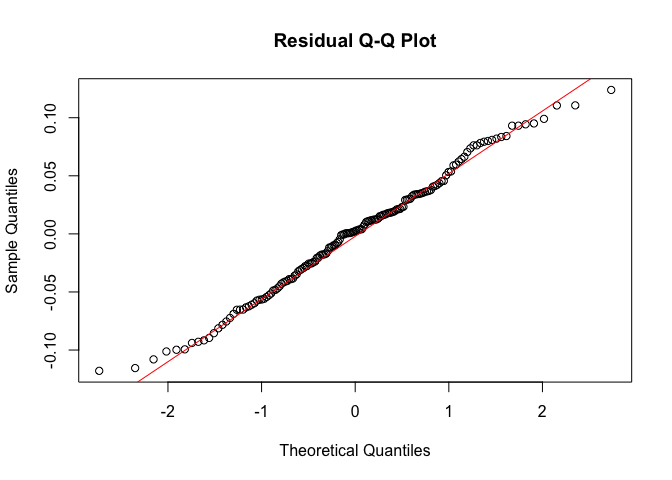
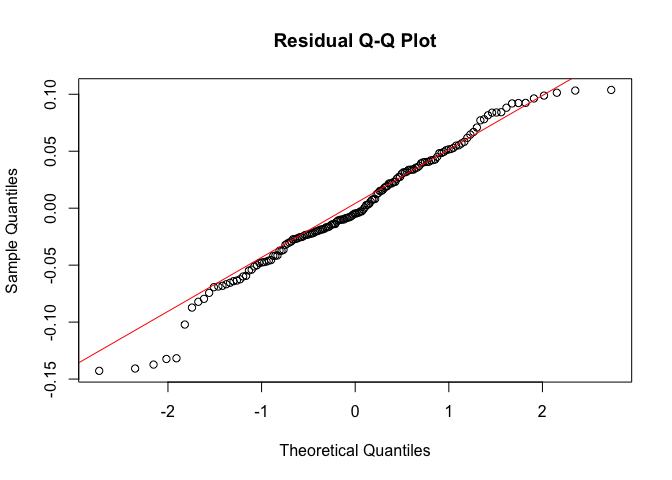
try to display equations properly in markdown

diff --git a/01-plan/01-pre-registration/03-analysis-plan.md b/01-plan/01-pre-registration/03-analysis-plan.md
@@ -41,21 +41,15 @@ stronger negative effect on plant biomass) with increasing nitrogen.
 Based on this experimental design, we will use the following linear
 model to analyse this experiment:
 
-![log(L\_{i}) = \alpha + \beta_1\text{N}\_{i} + \beta_2\text{M}\_{i} + \beta_3\text{N}\_{i}\text{M}\_{i} + \epsilon\_{i}](log%28L_%7Bi%7D%29%20%3D%20%5Calpha%20%2B%20%5Cbeta_1%5Ctext%7BN%7D_%7Bi%7D%20%2B%20%5Cbeta_2%5Ctext%7BM%7D_%7Bi%7D%20%2B%20%5Cbeta_3%5Ctext%7BN%7D_%7Bi%7D%5Ctext%7BM%7D_%7Bi%7D%20%2B%20%5Cepsilon_%7Bi%7D "log(L_{i}) = \alpha + \beta_1\text{N}_{i} + \beta_2\text{M}_{i} + \beta_3\text{N}_{i}\text{M}_{i} + \epsilon_{i}")
+$$log(L_{i}) = \alpha + \beta_1\text{N}_{i} + \beta_2\text{M}_{i} + \beta_3\text{N}_{i}\text{M}_{i} + \epsilon_{i}$$
+$$\epsilon_{i} \sim Normal(0, \sigma_{residual})$$ Based on this model,
+we can set-up the statistical hypotheses as follows:
 
-![\epsilon\_{i} \sim Normal(0, \sigma\_{residual})](%5Cepsilon_%7Bi%7D%20%5Csim%20Normal%280%2C%20%5Csigma_%7Bresidual%7D%29 "\epsilon_{i} \sim Normal(0, \sigma_{residual})")
+$$H_0: \beta_3 \ge 0$$ $$H_A: \beta_3 \lt 0$$
 
-Based on this model, we can set-up the statistical hypotheses as
-follows:
-
-![H_0: \beta_3 \ge 0](H_0%3A%20%5Cbeta_3%20%5Cge%200 "H_0: \beta_3 \ge 0")
-
-![H_A: \beta_3 \lt 0](H_A%3A%20%5Cbeta_3%20%5Clt%200 "H_A: \beta_3 \lt 0")
-
-Therefore, if ![\beta_3](%5Cbeta_3 "\beta_3") is significantly less than
-zero (i.e. ![P \< 0.025](P%20%3C%200.025 "P < 0.025")), we would
-interpret this as evidence that plant-soil feedback does become stronger
-with increasing N.
+Therefore, if $\beta_3$ is significantly less than zero
+(i.e. $P<0.025$), we would interpret this as evidence that plant-soil
+feedback does become stronger with increasing N.
 
 ### Simulated data
 
@@ -117,12 +111,12 @@ head(dat_e1)
     # A tibble: 6 × 5
           N     M     L N_trans L_log
       <dbl> <dbl> <dbl>   <dbl> <dbl>
-    1  1.39     0  4.02       0  1.39
-    2  1.39     0  4.81       0  1.57
-    3  1.39     0  5.21       0  1.65
-    4  1.39     0  4.24       0  1.45
-    5  1.39     0  4.16       0  1.43
-    6  1.39     0  5.02       0  1.61
+    1  1.39     0  4.15       0  1.42
+    2  1.39     0  4.08       0  1.41
+    3  1.39     0  4.01       0  1.39
+    4  1.39     0  5.34       0  1.67
+    5  1.39     0  4.46       0  1.49
+    6  1.39     0  3.82       0  1.34
 
 Now we are ready to fit the model:
 
@@ -180,29 +174,26 @@ summary(lm_e1)
 
     Residuals:
           Min        1Q    Median        3Q       Max 
-    -0.305161 -0.063319  0.000386  0.070744  0.237251 
+    -0.211249 -0.059002  0.001865  0.052514  0.216039 
 
     Coefficients:
                 Estimate Std. Error t value Pr(>|t|)    
-    (Intercept)  1.52973    0.02958  51.709  < 2e-16 ***
-    M           -0.16738    0.04184  -4.001 0.000145 ***
-    N_trans      0.19906    0.01742  11.424  < 2e-16 ***
-    M:N_trans   -0.09175    0.02464  -3.723 0.000375 ***
+    (Intercept)  1.50551    0.02688  56.006  < 2e-16 ***
+    M           -0.11260    0.03802  -2.962  0.00408 ** 
+    N_trans      0.19380    0.01583  12.241  < 2e-16 ***
+    M:N_trans   -0.09571    0.02239  -4.275 5.49e-05 ***
     ---
     Signif. codes:  0 '***' 0.001 '**' 0.01 '*' 0.05 '.' 0.1 ' ' 1
 
-    Residual standard error: 0.108 on 76 degrees of freedom
-    Multiple R-squared:  0.8067,    Adjusted R-squared:  0.7991 
-    F-statistic: 105.7 on 3 and 76 DF,  p-value: < 2.2e-16
+    Residual standard error: 0.09816 on 76 degrees of freedom
+    Multiple R-squared:  0.8047,    Adjusted R-squared:  0.797 
+    F-statistic: 104.4 on 3 and 76 DF,  p-value: < 2.2e-16
 
-In this output, the ![\beta_3](%5Cbeta_3 "\beta_3") parameter is the
-“M:N_trans” parameter. This output indicates that
-![\beta_3](%5Cbeta_3 "\beta_3") is significantly less than zero
-(![t_1 = -4.03; P = 0.00013](t_1%20%3D%20-4.03%3B%20P%20%3D%200.00013 "t_1 = -4.03; P = 0.00013")).
-Therefore, we would reject our null hypothesis
-(![H_0: \beta_3 \ge 0](H_0%3A%20%5Cbeta_3%20%5Cge%200 "H_0: \beta_3 \ge 0"))
-and infer support for our alternative hypothesis
-(![H_0: \beta_3 \< 0](H_0%3A%20%5Cbeta_3%20%3C%200 "H_0: \beta_3 < 0")).
+In this output, the $\beta_3$ parameter is the “M:N_trans” parameter.
+This output indicates that $\beta_3$ is significantly less than zero
+($t_1 = -4.03; P = 0.00013$). Therefore, we would reject our null
+hypothesis ($H_0: \beta_3 \ge 0$) and infer support for our alternative
+hypothesis ($H_0: \beta_3 < 0$).
 
 ### Visualise the results
 
@@ -210,12 +201,14 @@ To visualise the results, we will plot the model against the raw data.
 In addition, we will calculate plant-soil feedback using the metric used
 by Goossens et al. (2023, npj):
 
-![PSF_j = \frac{\overline{L}\_{microbes} - \overline{L}\_{no \\microbes}}{\overline{L}\_{no \\microbes}}](PSF_j%20%3D%20%5Cfrac%7B%5Coverline%7BL%7D_%7Bmicrobes%7D%20-%20%5Coverline%7BL%7D_%7Bno%20%5C%20microbes%7D%7D%7B%5Coverline%7BL%7D_%7Bno%20%5C%20microbes%7D%7D "PSF_j = \frac{\overline{L}_{microbes} - \overline{L}_{no \ microbes}}{\overline{L}_{no \ microbes}}")
+$$
+PSF_j = \frac{\overline{L}_{microbes} - \overline{L}_{no \ microbes}}{\overline{L}_{no \ microbes}}
+$$
 
-In this equation, the ![\overline{L}](%5Coverline%7BL%7D "\overline{L}")
-is the average across replicates of plant biomass for a given nitrogen
-level. Therefore, to obtain a measurement of the error around this
-estimate for each level of nitrogen, we used bootstrapping.
+In this equation, the $\overline{L}$ is the average across replicates of
+plant biomass for a given nitrogen level. Therefore, to obtain a
+measurement of the error around this estimate for each level of
+nitrogen, we used bootstrapping.
 
 ``` r
 # function for bootstrapping the sample and estimating psf
@@ -333,26 +326,28 @@ increasing nitrogen for invasive species. Based on this experimental
 design, we will use the following linear model to analyse this
 experiment:
 
-![log(I\_{i}) = \alpha + \beta_1\text{N}\_{i} + \beta_2\text{M}\_{i} + \beta_3\text{N}\_{i}\text{M}\_{i} + \epsilon\_{i}](log%28I_%7Bi%7D%29%20%3D%20%5Calpha%20%2B%20%5Cbeta_1%5Ctext%7BN%7D_%7Bi%7D%20%2B%20%5Cbeta_2%5Ctext%7BM%7D_%7Bi%7D%20%2B%20%5Cbeta_3%5Ctext%7BN%7D_%7Bi%7D%5Ctext%7BM%7D_%7Bi%7D%20%2B%20%5Cepsilon_%7Bi%7D "log(I_{i}) = \alpha + \beta_1\text{N}_{i} + \beta_2\text{M}_{i} + \beta_3\text{N}_{i}\text{M}_{i} + \epsilon_{i}")
-
-![\epsilon\_{i} \sim Normal(0, \sigma\_{residual})](%5Cepsilon_%7Bi%7D%20%5Csim%20Normal%280%2C%20%5Csigma_%7Bresidual%7D%29 "\epsilon_{i} \sim Normal(0, \sigma_{residual})")
-
-Based on this model, we can set-up the statistical hypotheses as
+$$
+log(I_{i}) = \alpha + \beta_1\text{N}_{i} + \beta_2\text{M}_{i} + \beta_3\text{N}_{i}\text{M}_{i} + \epsilon_{i}
+$$ $$
+\epsilon_{i} \sim Normal(0, \sigma_{residual})
+$$ Based on this model, we can set-up the statistical hypotheses as
 follows. The null hypothesis is that plant-soil feedback does not change
 or becomes weaker:
 
-![H_0: \beta_3 \ge 0](H_0%3A%20%5Cbeta_3%20%5Cge%200 "H_0: \beta_3 \ge 0")
+$$
+H_0: \beta_3 \ge 0
+$$
 
 The alternative hypothesis is that plant-soil feedback becomes stronger.
 
-![H_A: \beta_3 \lt 0](H_A%3A%20%5Cbeta_3%20%5Clt%200 "H_A: \beta_3 \lt 0")
+$$
+H_A: \beta_3 \lt 0
+$$
 
-Therefore, if ![\beta_3](%5Cbeta_3 "\beta_3") is significantly less than
-zero (i.e. ![P \< 0.025](P%20%3C%200.025 "P < 0.025")), we would
-interpret this as evidence that plant-soil feedback does become stronger
-with increasing N. However, if ![\beta_3](%5Cbeta_3 "\beta_3") is not
-significantly less than zero
-(i.e. ![P \ge 0.025](P%20%5Cge%200.025 "P \ge 0.025")), then we cannot
+Therefore, if $\beta_3$ is significantly less than zero
+(i.e. $P < 0.025$), we would interpret this as evidence that plant-soil
+feedback does become stronger with increasing N. However, if $\beta_3$
+is not significantly less than zero (i.e. $P \ge 0.025$), then we cannot
 reject the null hypothesis and we infer that nitrogen does not modify
 the strength of plant-soil feedback in invasive species.
 
@@ -412,12 +407,12 @@ head(dat_e2)
     # A tibble: 6 × 5
           N     M     I N_trans I_log
       <dbl> <dbl> <dbl>   <dbl> <dbl>
-    1  1.39     0  4.97       0  1.60
-    2  1.39     0  3.91       0  1.36
-    3  1.39     0  4.60       0  1.53
-    4  1.39     0  6.26       0  1.83
+    1  1.39     0  3.60       0  1.28
+    2  1.39     0  4.72       0  1.55
+    3  1.39     0  4.37       0  1.47
+    4  1.39     0  3.77       0  1.33
     5  1.39     0  4.39       0  1.48
-    6  1.39     0  4.26       0  1.45
+    6  1.39     0  3.66       0  1.30
 
 Next, we fit the model.
 
@@ -469,30 +464,27 @@ summary(lm_e2)
     lm(formula = I_log ~ M + N_trans + M:N_trans, data = dat_e2)
 
     Residuals:
-         Min       1Q   Median       3Q      Max 
-    -0.20024 -0.07048 -0.01057  0.06855  0.33308 
+          Min        1Q    Median        3Q       Max 
+    -0.202203 -0.065219 -0.005558  0.064437  0.256962 
 
     Coefficients:
                 Estimate Std. Error t value Pr(>|t|)    
-    (Intercept)  1.50048    0.02999  50.028   <2e-16 ***
-    M           -0.07619    0.04242  -1.796   0.0764 .  
-    N_trans      0.18799    0.01767  10.642   <2e-16 ***
-    M:N_trans   -0.01247    0.02498  -0.499   0.6192    
+    (Intercept)  1.46337    0.02680  54.609   <2e-16 ***
+    M           -0.03778    0.03790  -0.997   0.3219    
+    N_trans      0.21949    0.01578  13.907   <2e-16 ***
+    M:N_trans   -0.04677    0.02232  -2.095   0.0395 *  
     ---
     Signif. codes:  0 '***' 0.001 '**' 0.01 '*' 0.05 '.' 0.1 ' ' 1
 
-    Residual standard error: 0.1095 on 76 degrees of freedom
-    Multiple R-squared:  0.7488,    Adjusted R-squared:  0.7389 
-    F-statistic: 75.51 on 3 and 76 DF,  p-value: < 2.2e-16
+    Residual standard error: 0.09785 on 76 degrees of freedom
+    Multiple R-squared:  0.8152,    Adjusted R-squared:  0.8079 
+    F-statistic: 111.7 on 3 and 76 DF,  p-value: < 2.2e-16
 
-The ![\beta_3](%5Cbeta_3 "\beta_3") parameter is the “M:N_trans”
-parameter. This output indicates that ![\beta_3](%5Cbeta_3 "\beta_3") is
-not significantly less than zero
-(![t_1 = 1.1; P = 0.27](t_1%20%3D%201.1%3B%20P%20%3D%200.27 "t_1 = 1.1; P = 0.27")).
-Therefore, we cannot reject the null hypothesis
-(![H_0: \beta_3 \ge 0](H_0%3A%20%5Cbeta_3%20%5Cge%200 "H_0: \beta_3 \ge 0"))
-and, therefore, that plant-soil feedback does not become stronger with
-nitrogen for invasive species.
+The $\beta_3$ parameter is the “M:N_trans” parameter. This output
+indicates that $\beta_3$ is not significantly less than zero
+($t_1 = 1.1; P = 0.27$). Therefore, we cannot reject the null hypothesis
+($H_0: \beta_3 \ge 0$) and, therefore, that plant-soil feedback does not
+become stronger with nitrogen for invasive species.
 
 ### Visualise the results
 
@@ -572,15 +564,23 @@ plot(dag3)
 
 ![](03-analysis-plan_files/figure-commonmark/unnamed-chunk-19-1.png)
 
-![log(L\_{i}) = \alpha + \beta_1\text{N}\_{i} + \beta_2\text{M}\_{i} + \beta_3\text{I}\_{i} + \beta_4\text{N}\_{i}\text{M}\_{i} + \beta_5\text{I}\_{i}\text{M}\_{i} + \beta_6\text{I}\_{i}\text{N}\_{i} + \beta_7\text{N}\_{i}\text{M}\_{i}\text{I}\_{i} + \epsilon\_{i}](log%28L_%7Bi%7D%29%20%3D%20%5Calpha%20%2B%20%5Cbeta_1%5Ctext%7BN%7D_%7Bi%7D%20%2B%20%5Cbeta_2%5Ctext%7BM%7D_%7Bi%7D%20%2B%20%5Cbeta_3%5Ctext%7BI%7D_%7Bi%7D%20%2B%20%5Cbeta_4%5Ctext%7BN%7D_%7Bi%7D%5Ctext%7BM%7D_%7Bi%7D%20%2B%20%5Cbeta_5%5Ctext%7BI%7D_%7Bi%7D%5Ctext%7BM%7D_%7Bi%7D%20%2B%20%5Cbeta_6%5Ctext%7BI%7D_%7Bi%7D%5Ctext%7BN%7D_%7Bi%7D%20%2B%20%5Cbeta_7%5Ctext%7BN%7D_%7Bi%7D%5Ctext%7BM%7D_%7Bi%7D%5Ctext%7BI%7D_%7Bi%7D%20%2B%20%5Cepsilon_%7Bi%7D "log(L_{i}) = \alpha + \beta_1\text{N}_{i} + \beta_2\text{M}_{i} + \beta_3\text{I}_{i} + \beta_4\text{N}_{i}\text{M}_{i} + \beta_5\text{I}_{i}\text{M}_{i} + \beta_6\text{I}_{i}\text{N}_{i} + \beta_7\text{N}_{i}\text{M}_{i}\text{I}_{i} + \epsilon_{i}")
+$$
+log(L_{i}) = \alpha + \beta_1\text{N}_{i} + \beta_2\text{M}_{i} + \beta_3\text{I}_{i} + \beta_4\text{N}_{i}\text{M}_{i} + \beta_5\text{I}_{i}\text{M}_{i} + \beta_6\text{I}_{i}\text{N}_{i} + \beta_7\text{N}_{i}\text{M}_{i}\text{I}_{i} + \epsilon_{i}
+$$
 
-![\epsilon\_{i} \sim Normal(0, \sigma\_{residual})](%5Cepsilon_%7Bi%7D%20%5Csim%20Normal%280%2C%20%5Csigma_%7Bresidual%7D%29 "\epsilon_{i} \sim Normal(0, \sigma_{residual})")
+$$
+\epsilon_{i} \sim Normal(0, \sigma_{residual})
+$$
 
-![H_0: \beta_7 \ge 0](H_0%3A%20%5Cbeta_7%20%5Cge%200 "H_0: \beta_7 \ge 0")
+$$
+H_0: \beta_7 \ge 0
+$$
 
 The alternative hypothesis is that plant-soil feedback becomes stronger.
 
-![H_A: \beta_7 \lt 0](H_A%3A%20%5Cbeta_7%20%5Clt%200 "H_A: \beta_7 \lt 0")
+$$
+H_A: \beta_7 \lt 0
+$$
 
 ### Simulated data
 
@@ -668,12 +668,12 @@ head(dat_e3)
     # A tibble: 6 × 6
           N     M     I     L N_trans L_log
       <dbl> <dbl> <dbl> <dbl>   <dbl> <dbl>
-    1  1.39     0     0  5.29       0  1.67
-    2  1.39     0     0  4.65       0  1.54
-    3  1.39     0     0  5.20       0  1.65
-    4  1.39     0     0  5.23       0  1.65
-    5  1.39     0     0  4.96       0  1.60
-    6  1.39     0     0  5.14       0  1.64
+    1  1.39     0     0  5.23       0  1.65
+    2  1.39     0     0  5.22       0  1.65
+    3  1.39     0     0  5.21       0  1.65
+    4  1.39     0     0  5.12       0  1.63
+    5  1.39     0     0  5.31       0  1.67
+    6  1.39     0     0  5.24       0  1.66
 
 ``` r
 # fit the statistical model
@@ -719,33 +719,31 @@ summary(lm_e3)
 
     Residuals:
           Min        1Q    Median        3Q       Max 
-    -0.117909 -0.038519  0.002396  0.034266  0.123897 
+    -0.142785 -0.027800 -0.004756  0.036094  0.103785 
 
     Coefficients:
-                 Estimate Std. Error t value Pr(>|t|)    
-    (Intercept)  1.497750   0.025481  58.779  < 2e-16 ***
-    N            0.100172   0.008665  11.561  < 2e-16 ***
-    M           -0.207229   0.036036  -5.751 4.73e-08 ***
-    I           -0.081218   0.036036  -2.254   0.0256 *  
-    N:M         -0.058774   0.012254  -4.796 3.82e-06 ***
-    M:I         -0.050762   0.050962  -0.996   0.3208    
-    N:I         -0.008102   0.012254  -0.661   0.5095    
-    N:M:I       -0.084952   0.017330  -4.902 2.41e-06 ***
+                Estimate Std. Error t value Pr(>|t|)    
+    (Intercept)  1.46451    0.02523  58.043  < 2e-16 ***
+    N            0.11217    0.00858  13.074  < 2e-16 ***
+    M           -0.23122    0.03568  -6.480 1.21e-09 ***
+    I           -0.12731    0.03568  -3.568 0.000482 ***
+    N:M         -0.05839    0.01213  -4.812 3.57e-06 ***
+    M:I          0.04351    0.05046   0.862 0.389963    
+    N:I          0.01154    0.01213   0.951 0.343033    
+    N:M:I       -0.11528    0.01716  -6.718 3.47e-10 ***
     ---
     Signif. codes:  0 '***' 0.001 '**' 0.01 '*' 0.05 '.' 0.1 ' ' 1
 
-    Residual standard error: 0.05372 on 152 degrees of freedom
-    Multiple R-squared:  0.971, Adjusted R-squared:  0.9696 
-    F-statistic: 726.6 on 7 and 152 DF,  p-value: < 2.2e-16
+    Residual standard error: 0.05319 on 152 degrees of freedom
+    Multiple R-squared:  0.973, Adjusted R-squared:  0.9718 
+    F-statistic: 782.8 on 7 and 152 DF,  p-value: < 2.2e-16
 
-The ![\beta_7](%5Cbeta_7 "\beta_7") parameter is the “N:M:I” parameter.
-This output indicates that ![\beta_7](%5Cbeta_7 "\beta_7") is
-significantly less than zero ()
-(![t_1 = -6.6; P \< 0.001](t_1%20%3D%20-6.6%3B%20P%20%3C%200.001 "t_1 = -6.6; P < 0.001")).
-Therefore, we accept our alternative hypothesis that
-![\beta_7](%5Cbeta_7 "\beta_7") is less than zero which indicates that
-the competitive effect of invasives on natives increases with nitrogen
-but only with microbes.
+The $\beta_7$ parameter is the “N:M:I” parameter. This output indicates
+that $\beta_7$ is significantly less than zero ()
+($t_1 = -6.6; P < 0.001$). Therefore, we accept our alternative
+hypothesis that $\beta_7$ is less than zero which indicates that the
+competitive effect of invasives on natives increases with nitrogen but
+only with microbes.
 
 Function to bootstrap the competition estimate.
 
@@ -825,19 +823,19 @@ summary(comp_e3_boot)
 ```
 
      bootstrap_i              N               M         without_I    
-     Length:9930        Min.   :1.386   Min.   :0.0   Min.   :3.576  
-     Class :character   1st Qu.:2.079   1st Qu.:0.0   1st Qu.:4.136  
-     Mode  :character   Median :2.773   Median :0.5   Median :4.697  
-                        Mean   :2.773   Mean   :0.5   Mean   :5.013  
-                        3rd Qu.:3.466   3rd Qu.:1.0   3rd Qu.:5.751  
-                        Max.   :4.159   Max.   :1.0   Max.   :7.217  
+     Length:9990        Min.   :1.386   Min.   :0.0   Min.   :3.526  
+     Class :character   1st Qu.:2.079   1st Qu.:0.0   1st Qu.:4.066  
+     Mode  :character   Median :2.773   Median :0.5   Median :4.602  
+                        Mean   :2.773   Mean   :0.5   Mean   :4.971  
+                        3rd Qu.:3.466   3rd Qu.:1.0   3rd Qu.:5.723  
+                        Max.   :4.159   Max.   :1.0   Max.   :7.418  
          with_I       competition    
-     Min.   :2.349   Min.   :0.5292  
-     1st Qu.:2.775   1st Qu.:0.6680  
-     Median :3.850   Median :0.8171  
-     Mean   :4.057   Mean   :0.7912  
-     3rd Qu.:5.392   3rd Qu.:0.8936  
-     Max.   :6.310   Max.   :1.0536  
+     Min.   :2.306   Min.   :0.5460  
+     1st Qu.:2.740   1st Qu.:0.6745  
+     Median :3.746   Median :0.8473  
+     Mean   :4.086   Mean   :0.8022  
+     3rd Qu.:5.389   3rd Qu.:0.9066  
+     Max.   :6.929   Max.   :1.0619  
 
 ``` r
 # summarise these bootstrapped samples
